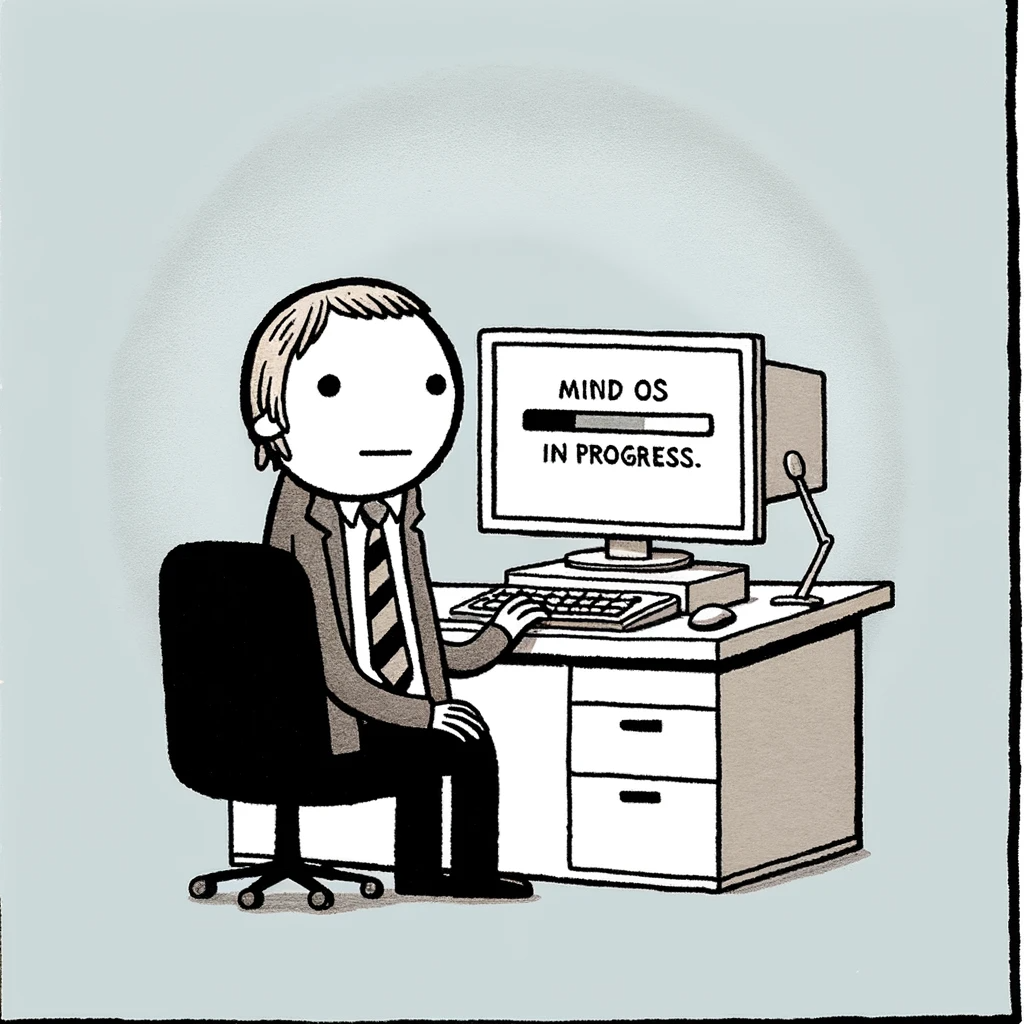
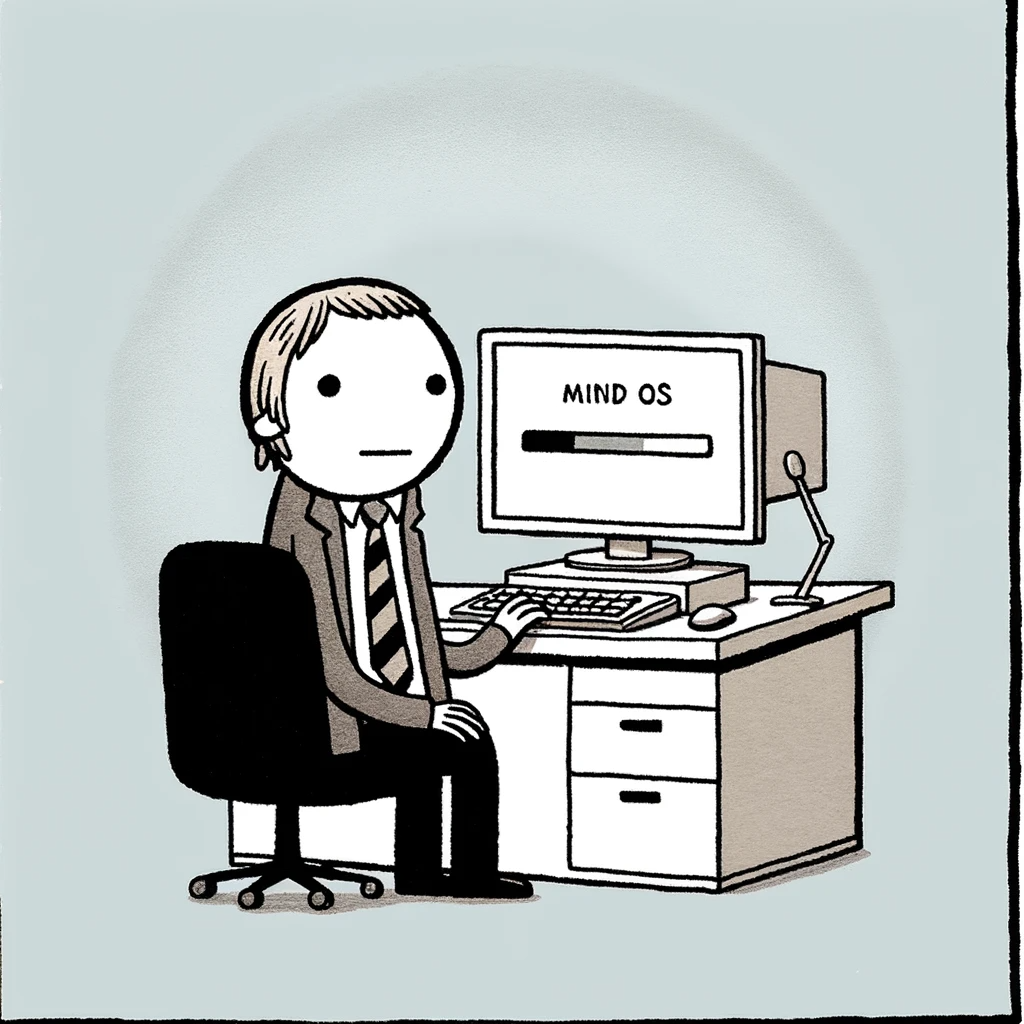
Finished with Buddhism perchance

Changed region(s): [[0.5, 0.375, 0.7188, 0.4688]]

diff --git a/Buddhism.md b/Buddhism.md
@@ -2,11 +2,13 @@
 
 This is the second section of a 4-part series. For context on why I'm writing this, check out [part one](Introduction.md).
 
-I don't like the way most people explain Buddhism. For a bunch of reasons, people tend to avoid explaining the main thrust of the Buddha's teachings all in one place. One reason is that Buddhism is complicated, so simplifying it as I'm doing will inevitably leave out some important details. But I think his teachings are fascinating and I want more people to understand and discuss them, so I'm going to try anyway.
+I don't like the way most people explain Buddhism. For a bunch of reasons, people tend to avoid explaining the core aspects of the Buddha's teachings all in one place. One reason is that Buddhism is complicated, so simplifying it as I'm doing will inevitably leave out some important details. But another reason is that his teachings can feel like a punch to the gut, and most people who take the time to understand them don't want to instantly turn to their friends and family and punch their guts as well.
+
+But I think his teachings are fascinating, and I want more people to understand and discuss them. So if you don't feel like getting punched in the existential gut, take this as a warning, because I'm winding up a real haymaker.
 
 ## Reasonings & Disclaimers
 
-There are endless arguments about who/what/when/where/why/how the Buddha's teachings should be offered. I am not a Buddhist scholar, nor even an "awakened" being, but I have spent the past couple of years learning from books, dharma talks, and opinions of experienced meditators.
+There are endless arguments about who/what/when/where/why/how the Buddha's teachings should be offered. I am not a Buddhist scholar, nor even an "awakened" being, but I _have_ spent the past couple of years learning from books, dharma talks, and opinions of experienced meditators.
 
 Based on my knowledge and my experience thus far, here's how I've decided to present things:
 
@@ -14,9 +16,9 @@ Based on my knowledge and my experience thus far, here's how I've decided to pre
 
 2. Concept-based: Buddhism, unlike other religions, doesn't involve any supernatural deitites. Instead, the "religion" (which is really better described as a science or practice) is based on concepts that can be directly realized. Explaining those concepts at some level is key to painting an accurate picture of Buddhism as a whole.
 
-3. Goal-oriented: What did the Buddha specifically desire as the end result of practice? How did he teach people to get there?
+3. Goal-oriented: What exactly did the Buddha desire as the end result of practice? How did he teach people to get there?
 
-I have done my best to emphasize only things the Buddha himself actually taught. I'm intentionally not going to go into arguments against any of his claims here, and I'm also not going to emphasize the nicer aspects of the Buddha's teachings (e.g. the Jhanas, cultivating love and generosity, etc.). I want the Buddha's implicit beliefs to come through as clearly as possible, and I explicitly don't want to blunt that impact. Please, _PLEASE_ do not take any of this as meditation advice. Instead, stay tuned for the next parts `:)`
+I have done my best to emphasize only things the Buddha himself actually taught. I'm also intentionally not going to go into arguments against any of his claims here. I want the Buddha's implicit beliefs to come through as clearly as possible, and I explicitly don't want to blunt that impact. Please, _PLEASE_ do not take any of this as meditation advice. Instead, stay tuned for the next parts `:)`
 
 ## The Buddha's Story
 
@@ -28,10 +30,10 @@ Dominant religion: Vedic Brahmanism (precursor to Hinduism)
 
 ![Statue of the Buddha](buddha.png)
 
-The Buddha (given name: Siddhartha Gautama) was born to royalty. The story goes: Siddhartha's parents sheltered him so he wouldn't be exposed to the painful aspects of life. He would rule having never experienced hardship. However, at the young age of 29, he finally left the palace and witnessed the suffering of the real world. Specifically, he saw an elderly person, a diseased person, a corpse, and a wandering ascetic.
-Siddhartha realized:
+The Buddha (given name: Siddhartha Gautama) was born to royalty. The story goes: Siddhartha's parents sheltered him so he wouldn't be exposed to the painful aspects of life. He would rule having never experienced hardship. However, at the young age of 29, Siddhartha finally left the palace and witnessed the suffering of the real world. Specifically, he saw an elderly person, a diseased person, a corpse, and a wandering ascetic.
+He realized:
 
-“I am subject to aging, subject to sickness, subject to death, subject to loss. I have not gone beyond aging, sickness, and death."
+“I am subject to aging, subject to sickness, subject to death, subject to loss. I have not gone beyond aging, sickness, and death." (AN 5.57)
 
 So, understanding his predicament and hoping to find a spiritual path that would allow him to transcend the suffering of his impermanent existence, Siddhartha followed the lead of the wandering ascetic and left his palace for good. He was an extremely precocious student, quickly mastering the teachings of many spiritual traditions, but found that none of them actually provided a refuge from his suffering. He then decided to take matters into his own hands, investigating the nature of his own experience directly to find a way to eliminate suffering for good.
 
@@ -46,15 +48,15 @@ You shall not build a house again for me.
 All your beams are broken,
 the ridgepole is shattered.
 The mind has become freed from conditioning:
-the end of craving has been reached.”
+the end of craving has been reached.” (Dhp 153-154)
 
 And if you're curious, these were his last words:
 
-"Behold, O monks, this is my advice to you. All component things in the world are changeable. They are not lasting. Work hard to gain your own salvation."
+"Behold, O monks, this is my advice to you. All conditions are impermanent. Work hard to gain salvation." (DN 16 6.7.1)
 
 If it's not clear already, the Buddha's view on life was not exactly happy-go-lucky. From the get-go, he was dead-set on his vision, and he never deviated from it. The Buddha was known to say:
 
-“I teach one thing and one thing only: Suffering and the end of suffering.”
+“All I teach is suffering and the end of suffering." (SN 22.86)
 
 ## Buddhism in a nutshell
 
@@ -88,6 +90,8 @@ Now that leaves us with the question: What is this "true" nature of reality that
 
 ### Concept Time: The Theory of Buddhism
 
+Buddhism is a pretty intellectual endeavor; it really can't be avoided. I've tried my best to explain it below with plenty of analogies, but if abstract concepts aren't to your taste, feel free to skip ahead.
+
 #### The Middle Way
 
 In Buddhism, the nature of reality is explained by The Middle Way. The Middle Way is both a way of living (avoiding extremes of self-gratification and self-mortification) and a way of looking (seeing neither existence nor nonexistence as real).
@@ -102,7 +106,7 @@ How does The Middle Way result in the end of clinging? Imagine this: You're walk
 
 The Middle Way is justified by the concept of Emptiness. Specifically, the emptiness of all phenomena.
 
-In this case, Emptiness does _not_ mean "nothingness"; it's not claiming that nothing exists. Instead, it's claiming that things don't exist in the way we naturally believe they do. And despite the name, it's also not endorsing nihilism. Along with disavowing both existence and nonexistence, the Buddha _specifically_ condemned the stances of both nihilism and eternalism (that things are either totally meaningless, or totally meaningful, respectively).
+In this case, Emptiness does _not_ mean "nothingness"; it's not claiming that nothing exists. Instead, it's claiming that things don't exist in the way we naturally believe they do. And despite the name, it's also not endorsing nihilism. In addition to disavowing both existence and nonexistence, the Buddha condemned the stances of both nihilism and eternalism (that things are either totally meaningless, or totally meaningful, respectively).
 
 ##### So what actually _is_ Emptiness, then?
 
@@ -133,7 +137,7 @@ The teaching of Dependent Origination states that all phenomena are interconnect
 "With this as condition,
 That arises.
 With this NOT as condition,
-That does NOT arise."
+That does NOT arise." (SN 12.61 5.1)
 
 At first, these ideas may seem obvious, or at the very least unimportant. Of course things cause other things. But let's put some pieces together:
 
@@ -141,11 +145,11 @@ At first, these ideas may seem obvious, or at the very least unimportant. Of cou
 
 1. Nothing in our experience is fundamental. Put another way, there is no root cause that isn't also an effect of some other cause. It's all interconnected and cyclic. Imagine experience as an Ouroboros (a snake eating its own tail). Experience is digesting itself because there's nothing but itself to subsist on. This act feels both good (tasty tail) and bad (ouch my tail).
 
-2. Earlier, I mentioned that suffering is just clinging in response to phenomena. But that's only the second arrow. On a deeper level, the Buddha believed that _all_ phenomena lead to suffering. The Ouroboros analogy explains it well: Good things aren't good in a vacuum; eventually the digester will become the digested. Thus, the only way to truly be free of suffering is to prevent phenomena from arising at all.
+2. Earlier, I mentioned that suffering is just clinging in response to phenomena, but actually that's only the second arrow. On a deeper level, the Buddha believed that _all_ phenomena lead to suffering. The Ouroboros analogy explains it well: Good things aren't good in a vacuum; eventually the digester will become the digested. Thus, the only way to truly be free of suffering is to prevent phenomena from arising at all.
 
 3. Every phenomenon has a specific set of causes that are conditions for it to arise. If we can remove even one of the causes, the effect will no longer arise. In our Ouroboros analogy, if we can take the tail out of the snake's mouth, it'll stop eating itself. And this is where everything comes together nicely: It turns out that clinging is _also_ the weakest link in the dependently originating cycle of arisings and passings away. Meaning: If you are able to relax your clinging to phenomena enough, they no longer arise at all.
 
-### Enlightenment: OS Update of the Mind
+### Enlightenment
 
 ![Mind OS](mind_os.png)
 
@@ -167,51 +171,55 @@ Sounds easy enough. Why don't you try it now? Go ahead, just cease all clinging.
 
 ...
 
-Didn't work? Well, just our luck: The Buddha also devised some practical strategies to help people stop that tiresome clinging.
+Didn't work? Well, just our luck: The Buddha also devised some practical strategies to help people with their tiresome clinging.
 
 ### A Path of Practice
 
-The Buddha understood that humans don't naturally have the capacity to instantaneously let go of their attachments to literally everything. There were two main issues:
+The Buddha understood that humans don't naturally have the capacity to instantaneously let go of their attachments to literally everything. People have two main roadblocks:
 
 1. People don't feel comfortable letting go. They fear that they won't be safe or happy without their normal attachments.
-2. People don't even know _how_ they're clinging. Their unconcsious attachments are so strong and consistent that they don't even realize they're there.
+2. People don't even know _how_ they're clinging. Their unconcsious attachments are so strong and habitual that they don't even realize they're there.
 
-And so, the Buddha developed practices to help with both of these issues.
+As usual, the studious Buddha came up with solutions for both of these issues.
 
 #### Becoming Wholesome
 
-The Buddha put an incredible amount of emphasis on the importance of cultivating wholesome qualities. The Noble Eightfold path (the last of the Four Noble Truths) is more or less just a guide for acting ethically and becoming more loving. He even outlines four specific types of love:
+The Buddha put an incredible amount of emphasis on the importance of cultivating wholesome qualities. The Noble Eightfold path (the last of the Four Noble Truths) is more or less just a guide for acting ethically and becoming more loving. He specifically focused on four types of love:
 
-1. Kindness: Love towards all beings
-2. Joy: Happiness about the good parts of life
-3. Compassion: Care directed towards suffering
-4. Equanimity: Peace in the face of everything
+- Kindness: Love for all beings
+- Joy: Happiness at the existence of good things
+- Compassion: Care directed towards suffering
+- Equanimity: Peace in the face of everything
 
-In day-to-day life, the Buddha recommends generosity as a pratice. Unsurprising, since it's literally the act of letting go (of time, money, emotions, etc.) in a loving way.
+In day-to-day life, the Buddha recommended practicing generosity at every opportunity. In a sense, generosity is the essence of the whole path, since it's literally the act of letting go (of time, money, emotions, etc.) with loving intent.
 
-And in meditation, the Buddha discovered eight states of mental collectedness and bliss he called the "Jhanas". There are four "form" Jhanas, in which you can still sense your body, but the entire felt sense of the body becomes unified. In that unified sensation, each Jhana has a prominent factor:
+![The Buddha preaching generosity while living off of alms](generosity.png)
 
-1. 1st Jhana: Pleasure
-2. 2nd Jhana: Happiness
-3. 3rd Jhana: Contentment
-4. 4th Jhana: Peace
+It _is_ a bit funny (but not contradictory) how the Buddha preached generosity while living on alms.
 
-The last four Jhanas are the "formless" Jhanas, in which the sense of the body disappears. They are:
+And in meditation, the Buddha discovered eight states of collectedness and bliss he called the "Jhanas". There are four "form" Jhanas, in which you can still sense your body, but in which the entire felt sense of the body becomes unified. In that unified sensation, each Jhana has a prominent factor:
 
-1. 5th Jhana: The realm of infinite space
-2. 6th Jhana: The realm of infinite consciousness
-3. 7th Jhana: The realm of nothingness
-4. 8th Jhana: The realm of neither perception nor non-perception
+- 1st Jhana: Pleasure
+- 2nd Jhana: Happiness
+- 3rd Jhana: Contentment
+- 4th Jhana: Peace
 
-By spending a lot of time working with the Jhanas, meditators can learn how to access abundant bliss independently of their external conditions. To people who aren't familiar with these states, even the possibility of their existence may sound crazy, but so is the Buddha's second thrust of practice, which is characterized by...
+The last four Jhanas are the "formless" Jhanas, in which the sense of the body disappears. They are typically described as "realms" or "dimensions" of being. They are:
+
+- 5th Jhana: The realm of infinite space
+- 6th Jhana: The realm of infinite consciousness
+- 7th Jhana: The realm of nothingness
+- 8th Jhana: The realm of neither perception nor non-perception
+
+By spending a lot of time working with the Jhanas, meditators can learn how to access abundant bliss independently of their external conditions. To people who aren't familiar with these states, even the possibility of their existence may sound crazy, but equally so is the Buddha's second thrust of practice, which is characterized by...
 
 #### The Five Aggregates and The Three Characteristics
 
-Seems like the Buddha really liked listicles. That, _or_ maybe it was just easier to remember teachings this way back before everything was recorded or written down. In any case, The Buddha defined these two groups as ways of looking at experience that would lead to the realization of emptiness (AKA un-inherentness).
+Seems like the Buddha really liked listicles. That, _or_ maybe it was just easier to remember teachings this way back before everything was recorded or written down. In any case, this next set of groups aren't teachings so much as they are ways of looking at experience. These ways of looking are intentionally designed to undermine our habitual tendencies of clinging, and so lead to awakening.
 
-#### The Five Aggregates
+##### The Five Aggregates
 
-The Buddha encouraged practitioners to view all of experience as a combination of five "aggregates", or "types" of phenomena.
+The Buddha encouraged practitioners to view all of experience as a combination of five "aggregates" (types) of phenomena.
 
 1. Form: Physical sensations; the 5 senses
 2. Feeling: The "tone" of sensation; whether something is pleasant or unpleasant
@@ -231,7 +239,7 @@ Looking in terms of the five aggregates is a strategy to break that automatic na
 
 The five aggregates view is also depersonalizing: If things are just "aggregates", there's not much reason to care about them. Likewise, all of the aggregates are impermanent, unable to permanently satisfy us in a way we'd like, and can't be inherently identified as "me" or "mine". The Buddha heavily emphasized these three aspects of phenomena in his teachings, going so far as to proclaim them as...
 
-#### The Three Characteristics
+##### The Three Characteristics
 
 In order to end suffering once and for all, drastic measures must be taken. Specifically, adopting lenses that cast experience in a less-than-appealing light. Or, the Buddha would argue, an accurate light. These lenses are:
 
@@ -241,31 +249,37 @@ In order to end suffering once and for all, drastic measures must be taken. Spec
 
 Sound a bit... bleak? Maybe this Buddha guy needed a good karaoke night. Or maybe he just _really_ wanted people to awaken at whatever the cost.
 
-There's a quote from him that goes (roughly, paraphrased from Rob Burbea):
+![The Buddha singing karaoke](karaoke_buddha.png)
 
-"If you could make a deal, that every day for a hundred years, you would be stabbed with one hundred spears in the morning, stabbed again one hundred times at noon, and one hundred more times in the evening, but with a guarantee that at the end of those hundred years you’d gain full awakening, that would be a deal worth taking."
+(I couldn't not)
 
-And not only that, but:
+There's a quote from him that goes:
 
-“You wouldn’t feel, at the end of those hundred years, that it had been gained with difficulty relative to what had been gained.”
+"Monks, suppose there was a man whose life span was 100 years, who would live to 100. Someone would say to him, ‘Look here, fellow. They will stab you at dawn with 100 spears, at noon with 100 spears, & again at evening with 100 spears. You, thus stabbed day after day with 300 spears, will have a lifespan of 100 years, will live to be 100, and at the end of 100 years you will realize the four noble truths that you have never realized before.’
+
+"Monks, a person who desired his own true benefit would do well to take up [the offer]... if this were to occur, I tell you that the realization of the four noble truths would not be accompanied by pain & distress. Instead, I tell you, the realization of the four noble truths would be accompanied by pleasure & happiness." (SN 56:35)
 
 Damn. What is this awakening then, and how is it _that_ good?
 
-### The Actuality of Awakening
+### The Fruit of Practice
 
-It's nigh impossible to convey the phenomenology of "awakening" to people who don't already understand it. Yet it is a very real and distinct phenomenon, so I'll try to contour some lines around it here, and point to some external resources that describe it in even more detail.
+It's nigh impossible to convey the phenomenology of "awakening" accurately with words. Yet it is a very real and distinct phenomenon, so I'll try to contour some lines around it here, and point to some external resources that describe it in even more detail.
 
 Technically, in Buddha Dharma, there are four stages of awakening, defined by ten fetters that must each be broken to reach full liberation, but for our purposes we'll just go with the first stage. This initial awakening, known as "stream entry", is what most people are referring to when you hear the word "enlightenment".
 
 #### Stream Entry
 
+"Sole dominion over the earth, going to heaven, lordship over all worlds: the fruit of stream-entry excels them." (Dhp 178)
+
+![Abstract art of the self looking in a mirror](stream_entry.png)
+
 Awakening, stream entry, nonduality, pure being. There are many ways people describe it, but it comes down to one key point:
 
-You pay close enough attention to experience in a specific way, and suddenly you realize that there is no "self", and there never was one.
+You pay close enough attention to experience in a specific way, and suddenly you see that there is no "self", and there never was one.
 
-And it's not that the self is "lost", or "eradicated". Your personality and intelligence and everything about you is still fully intact; it's just that you realize you were adding extra tension onto experience in the shape of a self-conception that didn't actually inherently exist. It was empty, just like everything else.
+And it's not that the self is "lost", or "eradicated". Your personality and intelligence and everything about you is still fully intact; it's just that you realize you were adding extra tension onto experience in the shape of a self-conception that didn't actually inherently exist. It was empty, and dependently originated within your own mind, just like everything else.
 
-[Rival Voices on non-self](https://x.com/nosilverv/status/1741895350078607422?s=20)
+![Rival Voices on non-self](no_self.png)
 
 After seeing that the self is no more than a fictional narrative, "you" no longer experience craving or aversion, since there's no "you" to be helped or harmed by any outcome. Suffering: Ended.
 
@@ -275,7 +289,7 @@ Maybe surprisingly, no. Your mind already has existing beliefs and habits in pla
 
 If that still doesn't sound good: Welcome to why people generally don't introduce Buddhism by talking about its practical goals.
 
-How about an analogy from the Buddha himself? Here he explains stream entry to a monk named Magandiya (paraphrased by Rob Burbea):
+How about an analogy from the Buddha himself? Here he explains stream entry to a monk named Magandiya (MN 75):
 
 ___
 
@@ -285,7 +299,7 @@ Then suppose his friends, companions, and relatives took him to a doctor, and th
 
 “My gosh, how long have I been fooled, cheated, and deceived by that man and his grimy, oil-stained rag. ‘Here, my good man, is a white cloth, beautiful, spotless and clean.’” In the same way, Magandiya, if I were to teach you the Dharma, this freedom from dis-ease, this unbinding, and you on your part were to understand that freedom from dis-ease and see that unbinding, then together with the arising of your eyesight, you would abandon whatever passion and delight you felt with regard for the five aggregates for sustenance.
 
-And it would occur to you, “My gosh, how long have I been fooled, cheated, and deceived by this mind, for in clinging it was just form, it was just body that I was clinging to. It was just feeling, just perception, just mental processes, mental formations, just consciousness that I was clinging to. With my clinging as condition, there is becoming, birth, and then ageing and death, sorrow, lamentation, pains, distresses and despairs, all come into play, and thus is the origination of this entire mass of stress.
+And it would occur to you, “My gosh, how long have I been fooled, cheated, and deceived by this mind, for in clinging it was just form, it was just body that I was clinging to. It was just feeling, just perception, just mental processes, mental formations, just consciousness that I was clinging to. With my clinging as condition, there is becoming, birth, and then aging and death, sorrow, lamentation, pains, distresses and despairs, all come into play, and thus is the origination of this entire mass of stress.
 
 ___
 
@@ -311,8 +325,9 @@ It is not formed by causal conditions, and therefore never changes, nor ceases t
 
 From the Buddha:
 
-“And now, monks, I thought: ‘This truth that I have realized is profound, hard to see, hard to understand, pure, peaceful, sublime, beyond the realm of reasoning, subtle, and only the wise can experience it’”
+“Deep is this Dharma, hard to see, hard to realize, peaceful and refined, beyond the scope of conjecture, subtle, to be experienced by the wise. For those with other views, other practices, other satisfactions, other aims, other teachers, it
+is difficult to know.” (MN 72 18.1)
 
-"There is that dimension, monks, where there is neither earth, nor water, nor fire, nor wind; neither dimension of the infinitude of space, nor dimension of the infinitude of consciousness, nor dimension of nothingness, nor dimension of neither perception nor non-perception; neither this world, nor the next world, nor sun, nor moon. And there, I say, there is neither coming, nor going, nor staying; neither passing away nor arising. It is without foundation. It continues not. This, just this, is the end of suffering."
+"There is that dimension, monks, where there is neither earth, nor water, nor fire, nor wind; neither dimension of the infinitude of space, nor dimension of the infinitude of consciousness, nor dimension of nothingness, nor dimension of neither perception nor non-perception; neither this world, nor the next world, nor sun, nor moon. And there, I say, there is neither coming, nor going, nor staying; neither passing away nor arising. It is without foundation. It continues not. This, just this, is the end of suffering." (UD 8.1)
 
-“Where all phenomena cease, there all ways of speaking cease.”
+“Where all phenomena cease, there all ways of speaking cease.” (SN 5.6)
